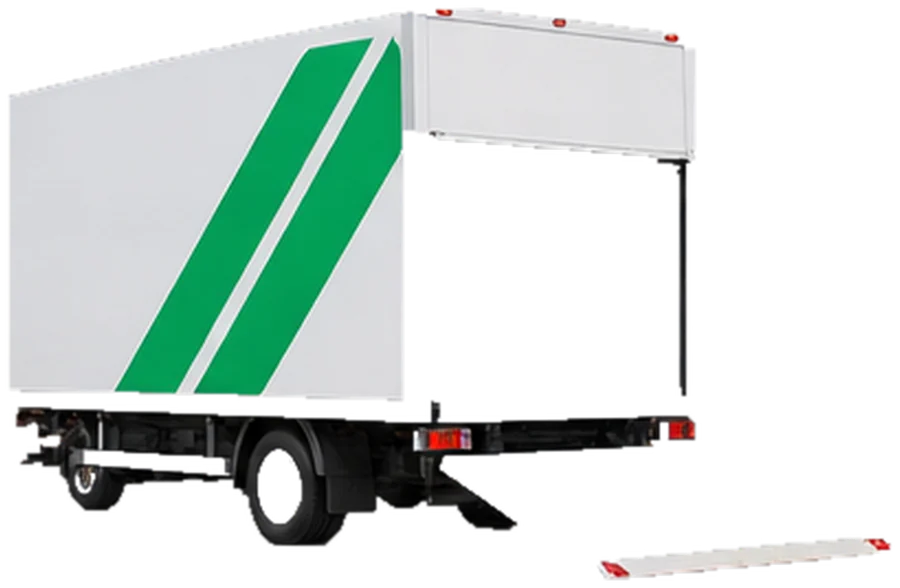
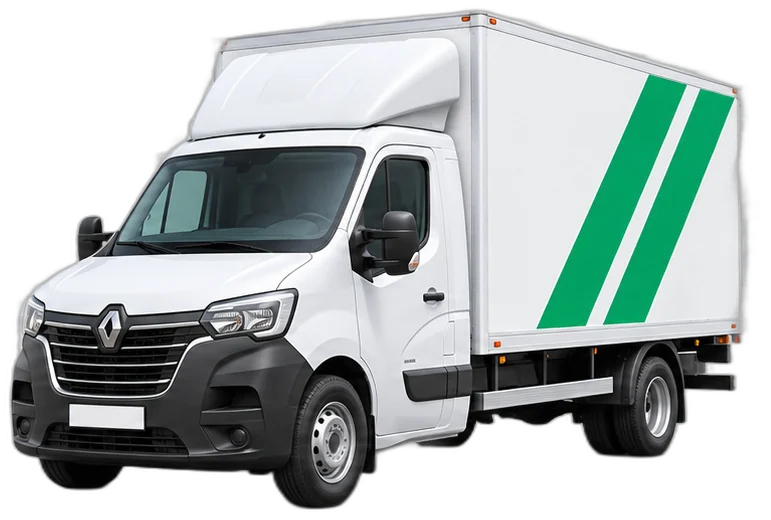
Visuels : camion 20 m³ régénéré et trois pictos détourés (#12)
Claude-Session: https://claude.ai/code/session_01V6DkyBhUBPrSw3zkEEY5Ea

diff --git a/src/components/VehicleImage.tsx b/src/components/VehicleImage.tsx
@@ -6,7 +6,7 @@ const RENDUS: Record<number, { src: string; w: number; h: number }> = {
   1: { src: "/images/camions/camion-1m2.webp", w: 900, h: 553 },
   2: { src: "/images/camions/camion-2m2.webp", w: 900, h: 506 },
   4: { src: "/images/camions/camion-4m2.webp", w: 900, h: 579 },
-  8: { src: "/images/camions/camion-8m2.webp", w: 900, h: 588 },
+  8: { src: "/images/camions/camion-8m2.webp", w: 771, h: 520 },
 };
 export const CHARGES: Record<number, { src: string; w: number; h: number }> = {
   1: { src: "/images/charges/charge-1m2.webp", w: 800, h: 531 },

diff --git a/docs/refonte-da.md b/docs/refonte-da.md
@@ -75,7 +75,7 @@
 | Besoin | Pourquoi | En attendant |
 |---|---|---|
 | **Logo officiel** (SVG) | en-tête, pied de page, OpenGraph | logotype SVG « chevrons verts + WANYM SOLUTION » dans `Logo.tsx` |
-| ~~Photo hero desktop et illustrations des 4 véhicules~~ **Reçus le 02/11/2026** (photo hero, 4 utilitaires, 4 charges, 19 pictos, chevrons) : découpés et détourés depuis la planche fournie, intégrés dans `public/images/` ; `TruckIcon` reste le repli | — | des fichiers séparés en haute résolution amélioreraient la netteté des camions sur écrans Retina (rendus actuels ≈ 300–420 px) ; trois pictos (armoire démontée, colis « autre », plante) restent en vignette non détourée |
+| ~~Photo hero desktop et illustrations des 4 véhicules~~ **Reçus le 02/11/2026** (photo hero, 4 utilitaires, 4 charges, 19 pictos, chevrons) : découpés et détourés depuis la planche fournie, intégrés dans `public/images/` ; `TruckIcon` reste le repli | — | archive haute résolution reçue le 02/11 (camions 900 px, pictos 512 px) ; les quatre visuels régénérés (armoire démontée, colis « autre », plante, camion 20 m³ sous le même angle que les autres) remplacent les vignettes provisoires |
 | **Prix d'appel** : la maquette affiche 49 / 69 / 99 / 149 € TTC, NAMY calcule 48 / 96 / 144 / 288 € TTC (grille 40 / 80 / 120 / 240 € **HT**) | les cartes affichent le prix NAMY ; si les montants de la maquette sont les bons, régler la grille « SITE WANYM » dans NAMY | prix NAMY |
 | Textes « Comment ça marche », « Professionnels », références / avis **validés** | sections de l'accueil | textes neutres seedés, modifiables par l'API ; références masquées tant que la clé est vide |
 | Identifiants **Google Ads** et éventuel **pixel Meta** | mesure | événements envoyés à `gtag` si présent ; Meta non branché |
